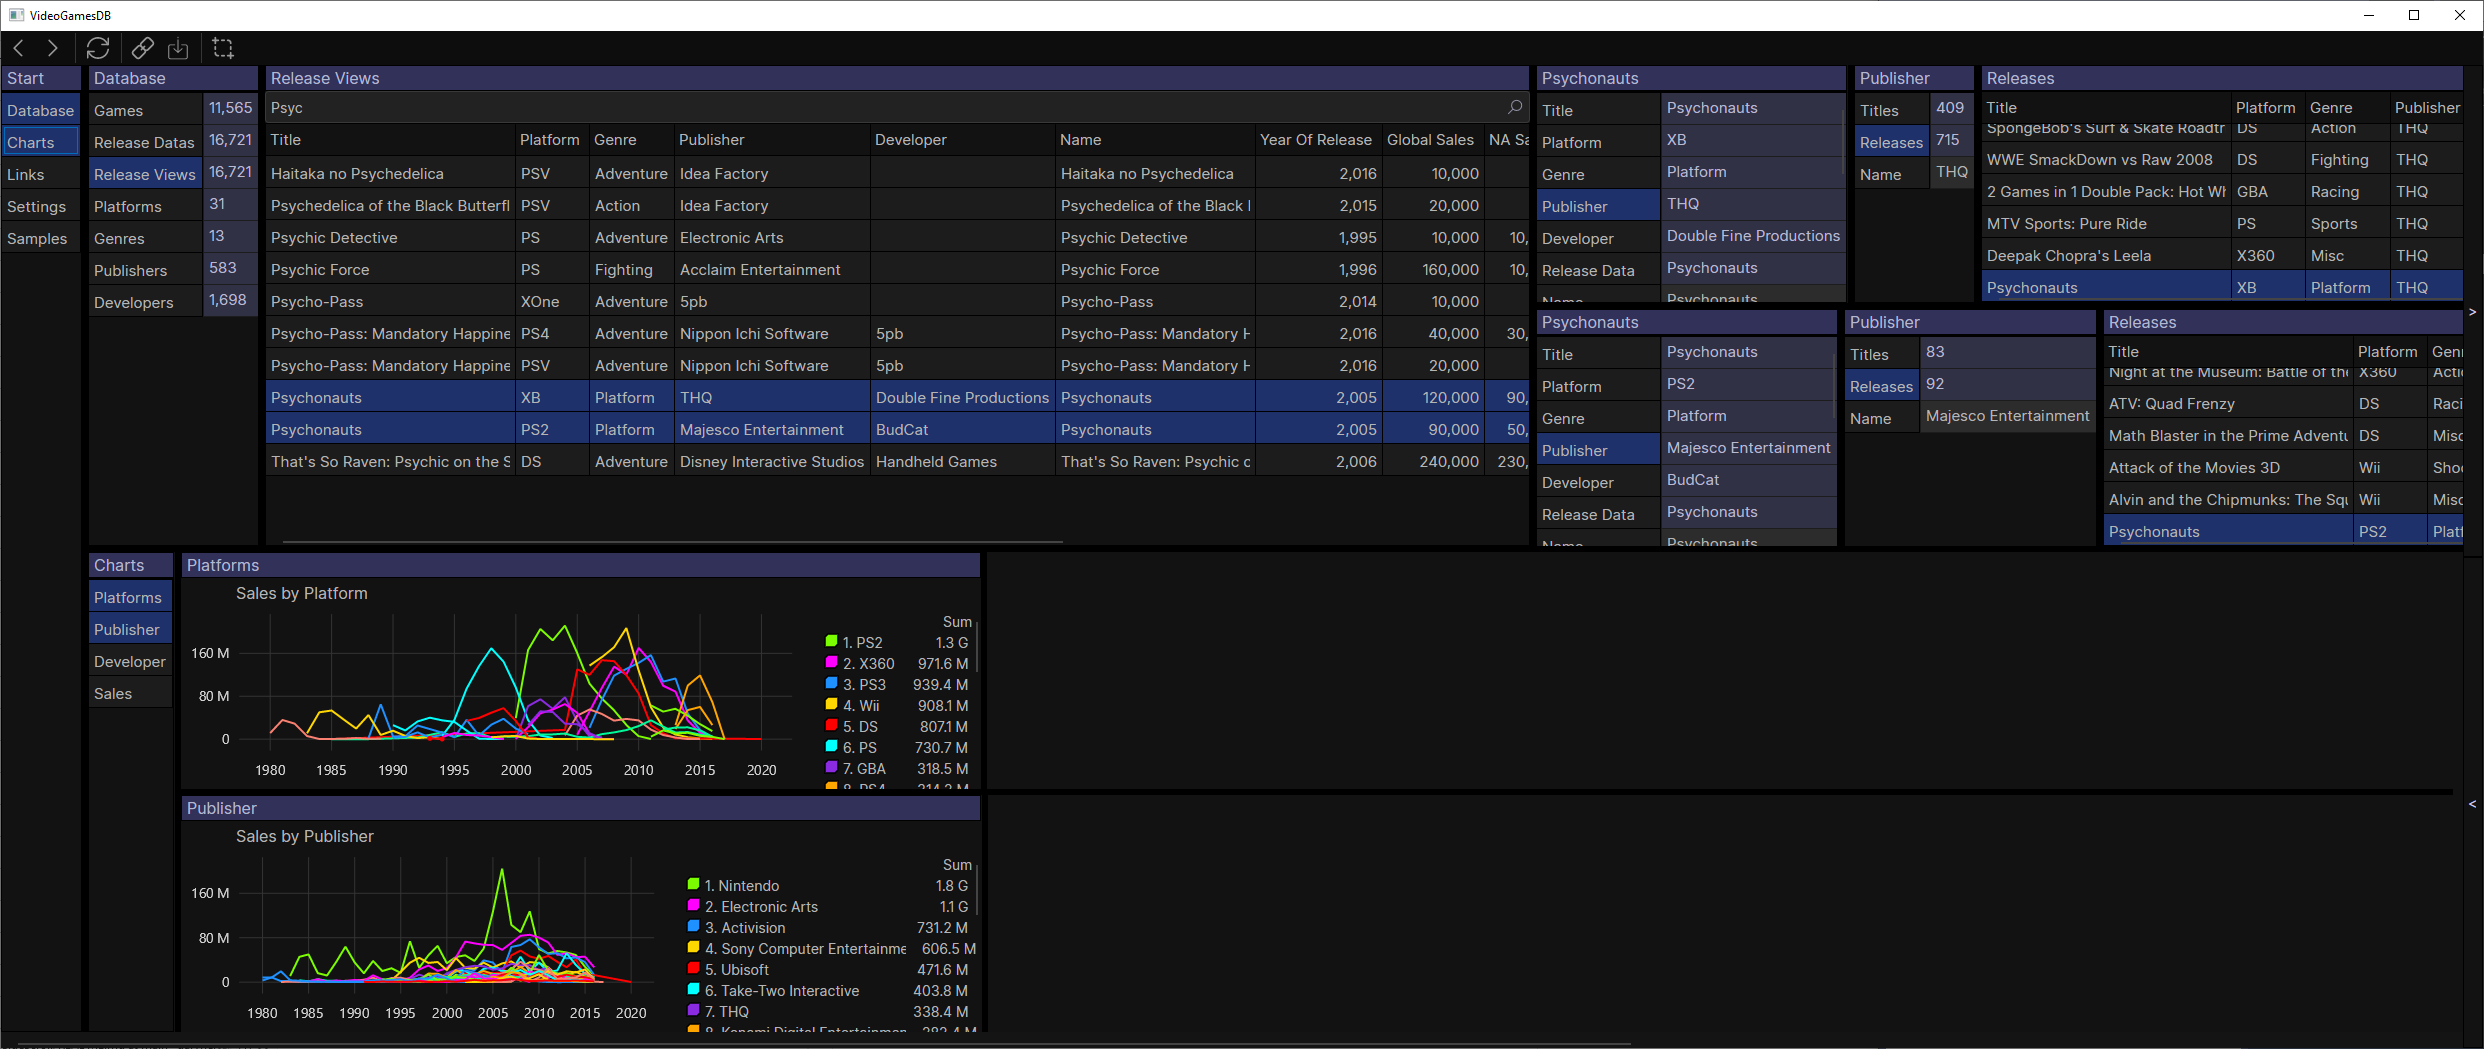
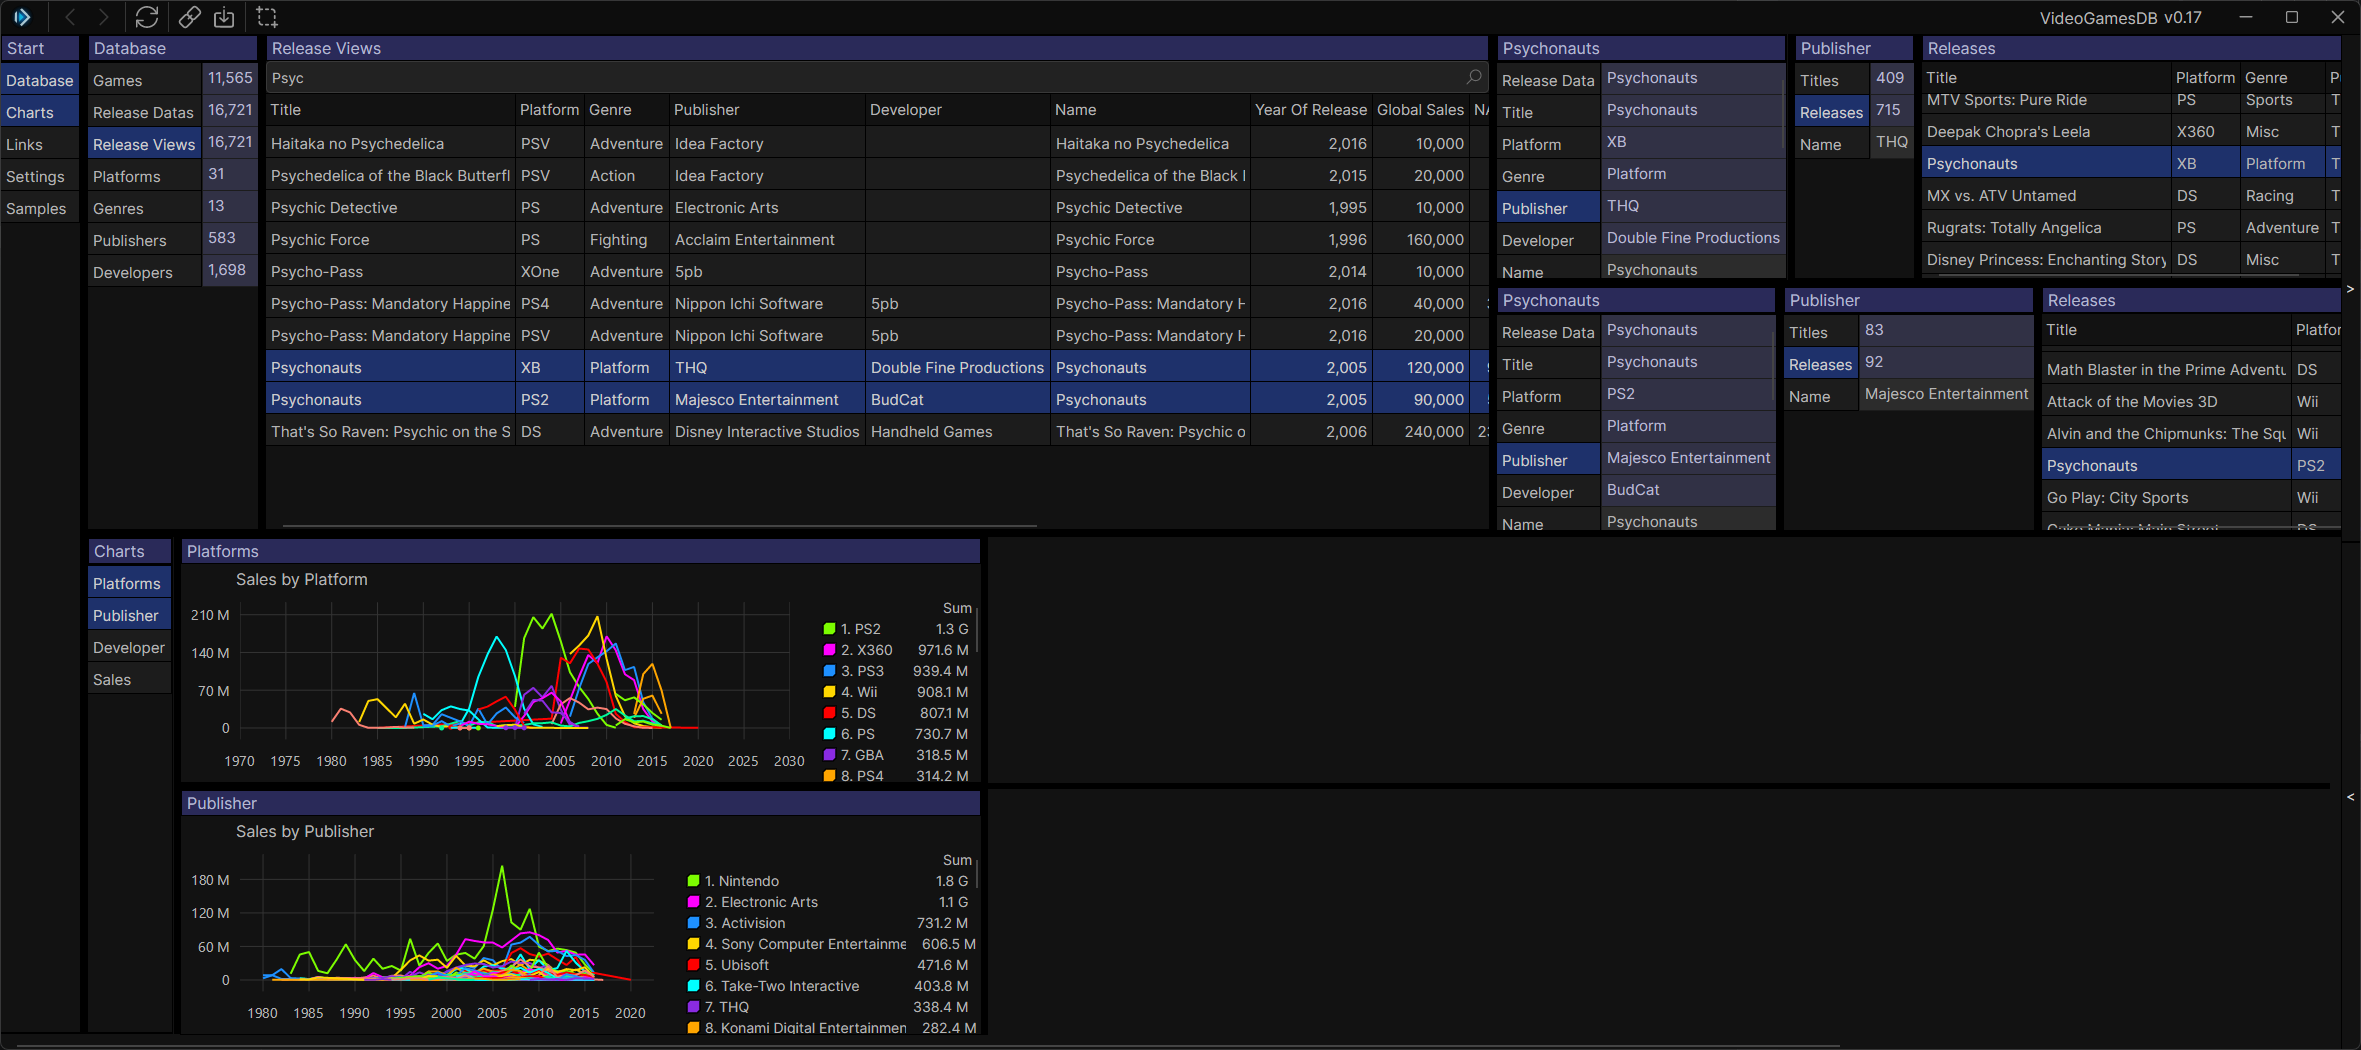
Updating Readme and Screenshots

diff --git a/README.md b/README.md
@@ -1,7 +1,13 @@
 # VideoGamesDB
 
----
+[![Live Demo](https://img.shields.io/badge/demo-live-success)](https://sidescrollui.github.io/VideoGamesDB/)
+[![License](https://img.shields.io/badge/license-MIT-blue.svg)](LICENSE)
+[![.NET](https://img.shields.io/badge/.NET-8.0-purple.svg)](https://dotnet.microsoft.com/download)
+[![Avalonia](https://img.shields.io/badge/Avalonia-11.3-blue.svg)](https://github.com/AvaloniaUI/Avalonia)
+
 VideoGamesDB is a sample application using the [SideScroll](https://github.com/SideScrollUI/SideScroll) UI framework for Avalonia. 
+
+---
 
 ## SideScroll
 
@@ -9,26 +15,38 @@ SideScroll is a cross platform Avalonia UI framework designed for quickly naviga
 
 SideScroll is designed with speed in mind, for both development and usage. Most tabs are created in code which makes them easier to link together and refactor later. Any object can be viewed or edited by adding it to a tab, with all the controls being automatically created for you, and customized via attributes. DataRepos can be used to save and load these objects, and the selected items can be passed in links automatically.
 
-## Features
+## ✨ Key Features
 
-- **Cross-Platform .NET [Avalonia UI](https://github.com/AvaloniaUI/Avalonia) Framework** — Supports **Windows, macOS, and Linux** 
-- **Smart Tab Navigation** — Automatically selects the next most likely items based on past usage.
-- **Multiple Path Support** — Open and compare multiple paths simultaneously.
-- **Shareable Links** — Create links to share views with others.
-- **DataRepos** — Manage local data storage and display data bound views
-- **Dynamic Form Generation** — Load any object into a **Param Control** for auto-generated Avalonia controls.
-- **Rich Text Support** — Integrated [AvaloniaEdit](https://github.com/AvaloniaUI/AvaloniaEdit) support for rich text viewing and editing
-- **Interactive Charting** — Integrated [LiveCharts 2](https://github.com/beto-rodriguez/LiveCharts2) support for smooth, animated charts. Use the mouse to zoom in or select a series to show additional tabs.
+- **🚀 Smart Tab Navigation** — Automatically predicts and displays the next most relevant tabs based on your navigation patterns
+- **🖥 Cross-Platform** — Built on [Avalonia UI](https://github.com/AvaloniaUI/Avalonia), runs on **Windows, macOS, Linux**, and **Web (WASM)**
+- **⚡ Rapid Development** — Create tabs in code for easy linking and refactoring; no XAML required
+- **🎨 Dynamic Forms** — Load any object into a **TabForm** and get auto-generated Avalonia controls with attribute-based customization
+- **💾 DataRepos** — Manage local data storage with data-bound views and automatic serialization
+- **🔗 Shareable Links** — Create and share deep links to any view or data state
+- **📊 Interactive Charting** — Integrated [LiveCharts 2](https://github.com/beto-rodriguez/LiveCharts2) with smooth animations, zooming, and interactive legends
+- **📝 Rich Text Editing** — Built-in [AvaloniaEdit](https://github.com/AvaloniaUI/AvaloniaEdit) support for syntax highlighting and text manipulation
+- **🎨 Customizable Themes** — Light, dark, and custom themes with exportable/importable JSON configurations
+- **🔍 Advanced Filtering** — Powerful DataGrid filtering with nested queries and operators
 
-### Examples
+## 🎬 Live Demo
 
-![VideoGamesDB](Images/Animations/SideScroll-VideoGamesDB.gif)
+**Try the VideoGamesDB demo in your browser:** [https://sidescrollui.github.io/VideoGamesDB/](https://sidescrollui.github.io/VideoGamesDB/)
 
-#### Light Theme
+The demo runs entirely in WebAssembly using Avalonia's browser support—no installation required!
+
+> **Note:** The browser version is experimental. For the best performance and full features, use the desktop application.
+
+## 📸 Screenshots & Examples
+
+### VideoGamesDB Sample
+
+![VideoGamesDB Animation](Images/Animations/SideScroll-VideoGamesDB.gif)
+
+### Light Theme
 
 ![Light Theme](Images/Screenshots/PsychonautsAndChartsLight.png)
 
-#### Dark Theme
+### Dark Theme
 
 ![Dark Theme](Images/Screenshots/PsychonautsAndChartsDark.png)
 
